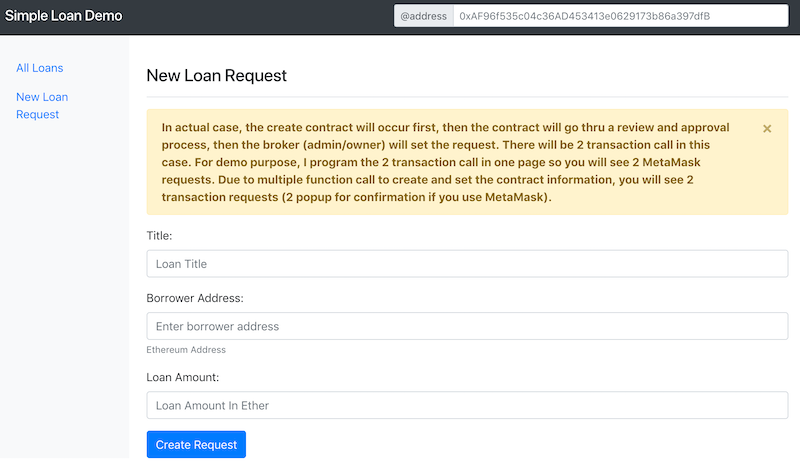
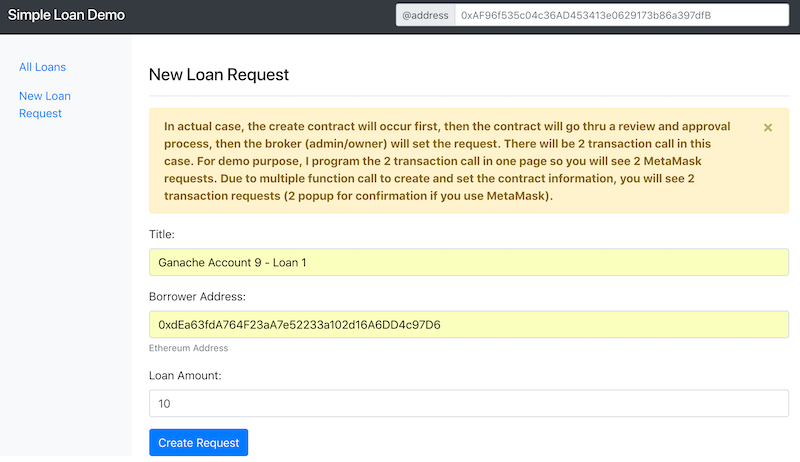
updated client readme

diff --git a/client/README.md b/client/README.md
@@ -50,5 +50,67 @@ A newly launch web app will not have any existing loans to it will display the f
 ![All Loans](public/img/md_app_default.png?raw=true)
 
 ### ```New Loan Request```
+In the right side of the top navigation bar, it displays current account used by Metamask. Fill out the form as shown in below. Make sure the borrower address is one of your Ganache test account and not the same as current account.
 
 ![New Loan](public/img/md_app_newloan.png?raw=true)
+
+Click the 'Create Request' and it will submit 2 transactions. The first transction is deploying a new contract with the current metamask account as owner, and the second transaction is to set the borrower and loan amount. Ideally, there should be some KYC or review process between creating contract and reviewing it but in this demo, the 2 processes are combined into one. That's the reason you see 2 Metamask popup to confirm the transations.
+
+***CONTRACT DEPLOYMENT*** is clearly shown in the first popup.
+
+![New Loan](public/img/md_app_newloan_1.png?raw=true)
+
+***CONTRACT INTERACTION*** is clearly shown in the first popup.
+
+![New Loan](public/img/md_app_newloan_2.png?raw=true)
+
+### ```All Loans```
+
+The all loans page will display all the loans created / requested currently as shown below. Click the 'View Details' button will show the selected loan details.
+
+![New Loan](public/img/md_app_allloans.png?raw=true)
+
+### ```Loan Details```
+
+> The applicatin is having a state refresh issue that I am still working on. After each submission or transaction, refresh the page again to see the updated loan information.
+
+#### Fund It
+
+***Make sure you switch to a different account in Metamask that is not the owner (broker/admin) or borrower.*** As a lender, you enter the amount you want to fund this loan. In this demonstration, it funded half of it as shown below. Click the 'Fund It !!!' button to submit the transaction. The network will transfer the given lending amount from the lender account to the contract address.
+
+![Funding](public/img/md_app_loandetails_1.png?raw=true)
+
+#### Refund It
+
+***Make sure you switch back as owner (broker/admin) account in Metamask in order to perform the refund function. Otherwise, the function modifier will prevent user other than owner.*** As the owner, you can refund the contributed lending amount back to the lenders as long as the status of the loan is either in funding or funded but the balance is not withdrawn by the borrower yet.
+
+Once refunded, you will see the status updated to *Refunded* and the amount of refunded to the lender as shown below.
+
+![Refund](public/img/md_app_loandetails_2.png?raw=true)
+
+### Withdrawn By Borrower 
+
+Once that's enough lenders fund the loan, the status of the loan will become 'Funded' and the fund is ready for borrower to withdraw to his/her accounts.
+
+![Borrower Withdraw](public/img/md_app_loandetails_3.png?raw=true)
+
+***Make sure you switch to the borrower account in Metamask in order to perform the fund withdrawn function. Otherwise, the function modifier will prevent user other than the borrower.***
+
+### Repay or Default By Borrower
+
+Once the fund is withdrawn to the borrower account, the loan contract status become 'FundWithdrawn'. In this state, the borrower either can repay or default the loan as shown below.
+
+![Repay or Default loan](public/img/md_app_loandetails_4.png?raw=true)
+
+If the borrower defaulted the loan, the status of the loan will become 'Defaulted' as shown below.
+
+![Defaulted loan](public/img/md_app_loandetails_6.png?raw=true)
+
+### Withdraw Re-paid Fund Back to Lenders
+
+***Make sure you switch back as owner (broker/admin) account in Metamask in order to perform the withdrawn fund back to lender function. Otherwise, the function modifier will prevent user other than owner.***
+
+Once the borrwer re-pay the loan, the balance of the loan contract is ready to be transfer back to owners according to the loan amount they funded. Clicking 'Repay Lender In Full' will complete the loan lifecycle with the status as 'Closed' shown below. The amount paid back to lender is shown in lender information.
+
+![Repay or Default loan](public/img/md_app_loandetails_5.png?raw=true)
+
